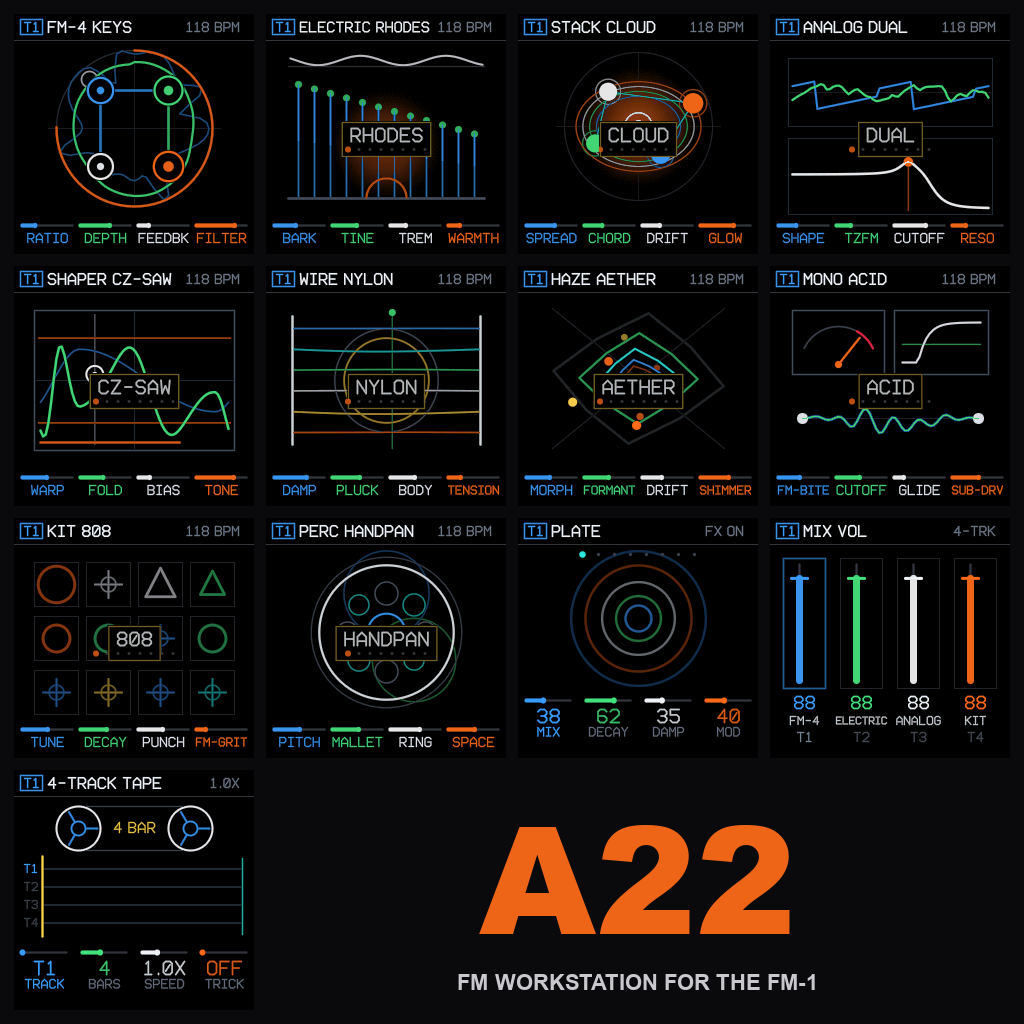
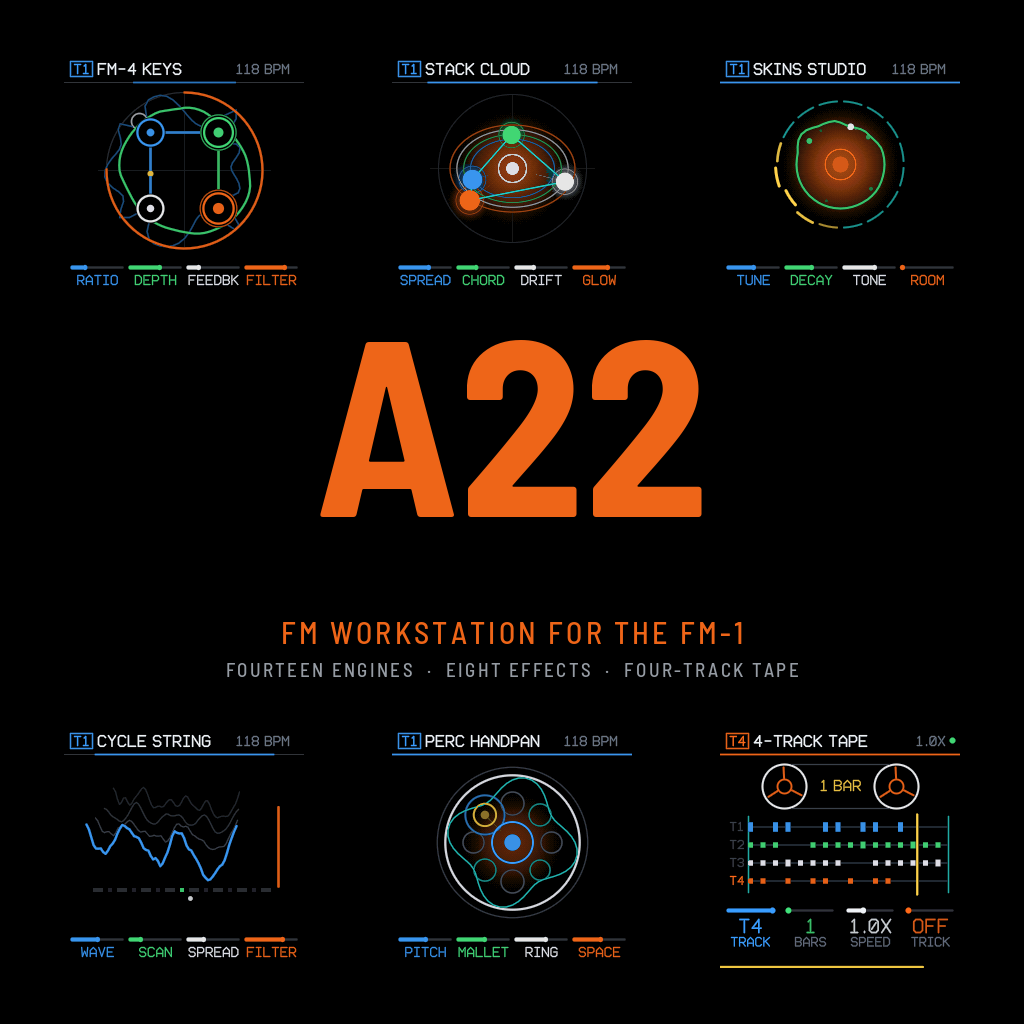
Hub card for 0.5.0: six live screens round the name, made by tools/hub_card.py
The card the Hub showed was 0.4.0's grid of 13 screens, most under an algorithm's name box, too
busy to read at the Hub's size. Now: FM-4 KEYS, STACK CLOUD and SKINS STUDIO above, CYCLE STRING,
PERC HANDPAN and the four-track tape (all four tracks recorded) below, each the core's own frame
at 1:1, taken while it plays and after every name box has cleared; A22 large in the middle in
Barlow Semi Condensed, in fmhub.json's colour, with "FOURTEEN ENGINES · EIGHT EFFECTS ·
FOUR-TRACK TAPE". Lossless WebP, 41,572 bytes.

tools/hub_card.py replaces h1's grid version (which wrote docs/img/hub-card.webp, a path A22 does
not use); tools/hub_card_shot.c renders one screen per process through the h1 API. One command
remakes the card for a release.

diff --git a/tools/hub_card.py b/tools/hub_card.py
@@ -1,65 +1,70 @@
 #!/usr/bin/env python3
-"""Renders h1's card picture for The Firmware Hub: every instrument's screen in one 4 x 4 grid.
+"""Renders A22's card picture for The Firmware Hub: six of its screens round the name.
 
-    python3 tools/hub_card.py      # builds build/h1host first, writes docs/img/hub-card.webp
+    python3 tools/hub_card.py       # writes docs/img/a22/hub-card.webp (fmhub.json's "image") and its .json
 
-Each tile is the host renderer's 240 x 240 frame at 1:1, taken mid-phrase while a short tune
-plays, so the pictures are the real firmware. With fewer than sixteen instruments the spare
-cells at the end hold the name. The Hub wants a square of 240 to 1024 px, 300 KB at most
-(fmhub.json's "image"); lossless WebP keeps every pixel and stays well under that.
-Needs Pillow and the Inter Display Black font for the name.
+Each screen is the core's own 240 x 240 frame at 1:1 (tools/hub_card_shot.c, built against core/*.c with cc), taken
+while it plays and after every name box has cleared: FM-4 KEYS, STACK CLOUD and SKINS STUDIO above, CYCLE STRING,
+PERC HANDPAN and the four-track tape with all four tracks recorded below. The name is in Barlow Semi Condensed
+(site/fonts), in fmhub.json's colour. The Hub wants a square of 240 to 1024 px, 300 KB at most; lossless WebP
+keeps every pixel and comes to about 42 KB. Needs cc and Pillow. Pick other screens in SHOTS.
 """
+import json
 import os
 import subprocess
-import sys
 import tempfile
 
 from PIL import Image, ImageDraw, ImageFont
 
-sys.path.insert(0, os.path.dirname(os.path.abspath(__file__)))
-import guide_media as g  # noqa: E402
-
-OUT = os.path.join(g.ROOT, "docs", "img", "hub-card.webp")
-FONT = "/usr/share/fonts/opentype/inter/InterDisplay-Black.otf"
-ACCENT = (0xFF, 0xB0, 0x8A)  # fmhub.json "color"
-SIZE, MARGIN, GAP, TILE = 1024, 14, 12, 240
-# pictures that read better later in the phrase, once their trails have built up
-LATE = {"ORBIT", "INK"}
-
-
-def shot(tmp, i, name):
-    at = 2950 if name in LATE else 1100
-    words, t = ["inst", str(i), "run", "2000"], 0
-    for tt, k, d in sorted(g.PHRASE):
-        if tt > at:
-            break
-        words += ["run", str(tt - t), "key", str(k), str(d)]
-        t = tt
-    words += ["run", str(at - t + 50 if name in LATE else 120), "shot", name.lower()]
-    g.run(tmp, words)
-    return Image.open(os.path.join(tmp, name.lower() + ".ppm")).convert("RGB")
+ROOT = os.path.normpath(os.path.join(os.path.dirname(os.path.abspath(__file__)), ".."))
+OUT = os.path.join(ROOT, "docs", "img", "a22", "hub-card.webp")
+FONTS = os.path.join(ROOT, "site", "fonts")
+SIZE = 1024
+SHOTS = [["0", "2", "13"], ["12", "9", "tape"]]   # engines by number (FM-4 0 ... SKINS 13), or the tape's page
+XS, YS = [64, 392, 720], [56, 728]
+TAG = "FM WORKSTATION FOR THE FM-1"
+LINE = "FOURTEEN ENGINES  ·  EIGHT EFFECTS  ·  FOUR-TRACK TAPE"
 
 
-def cell(i):
-    return MARGIN + (i % 4) * (TILE + GAP), MARGIN + (i // 4) * (TILE + GAP)
+def colour():
+    c = json.load(open(os.path.join(ROOT, "fmhub.json")))["color"].lstrip("#")
+    return tuple(int(c[i:i + 2], 16) for i in (0, 2, 4))
+
+
+def spaced(d, y, text, font, fill, track):
+    ws = [d.textlength(ch, font=font) for ch in text]
+    x = (SIZE - sum(ws) - track * (len(text) - 1)) / 2
+    for ch, w in zip(text, ws):
+        d.text((x, y), ch, font=font, fill=fill)
+        x += w + track
 
 
 def main():
-    subprocess.run([os.path.join(g.ROOT, "tools", "build_host.sh")], check=True, stdout=subprocess.DEVNULL)
-    names = g.instruments()[:16]
-    card = Image.new("RGB", (SIZE, SIZE), (0, 0, 0))
     with tempfile.TemporaryDirectory() as tmp:
-        for i, name in enumerate(names):
-            card.paste(shot(tmp, i, name), cell(i))
-    if len(names) < 16:
-        x, y = cell(len(names))
-        w = (16 - len(names)) * (TILE + GAP) - GAP
-        draw = ImageDraw.Draw(card)
-        font = ImageFont.truetype(FONT, 190)
-        l, t, r, b = draw.textbbox((0, 0), "h1", font=font)
-        draw.text((x + (w - (r - l)) / 2 - l, y + (TILE - (b - t)) / 2 - t), "h1", font=font, fill=ACCENT)
-    card.save(OUT, lossless=True, quality=100, method=6)
-    print("wrote", OUT, os.path.getsize(OUT), "bytes:", ", ".join(names))
+        exe = os.path.join(tmp, "shot")
+        core = sorted(os.path.join(ROOT, "core", f) for f in os.listdir(os.path.join(ROOT, "core")) if f.endswith(".c"))
+        subprocess.run(["cc", "-std=c99", "-O2", "-w", "-I", os.path.join(ROOT, "core"), *core,
+                        os.path.join(ROOT, "tools", "hub_card_shot.c"), "-o", exe, "-lm"], check=True)
+        card = Image.new("RGB", (SIZE, SIZE), (0, 0, 0))
+        for r, row in enumerate(SHOTS):
+            for c, what in enumerate(row):
+                ppm = os.path.join(tmp, f"{what}.ppm")
+                subprocess.run([exe, what, ppm], check=True)
+                card.paste(Image.open(ppm).convert("RGB"), (XS[c], YS[r]))
+    d = ImageDraw.Draw(card)
+    orange = colour()
+    big = ImageFont.truetype(os.path.join(FONTS, "BarlowSemiCondensed-Bold.ttf"), 250)
+    bb = d.textbbox((0, 0), "A22", font=big)
+    d.text(((SIZE - (bb[2] - bb[0])) / 2 - bb[0], 340 - bb[1]), "A22", font=big, fill=orange)
+    medium = os.path.join(FONTS, "BarlowSemiCondensed-Medium.ttf")
+    spaced(d, 614, TAG, ImageFont.truetype(medium, 30), orange, 3.2)
+    spaced(d, 658, LINE, ImageFont.truetype(medium, 19), (150, 156, 164), 2.4)
+    card.save(OUT, "WEBP", lossless=True, method=6)
+    with open(OUT + ".json", "w") as f:
+        json.dump({"prompt": "origin: The Firmware Hub card for A22, composed by tools/hub_card.py: six of its "
+                   "screens rendered by the core while playing (FM-4, STACK, SKINS, CYCLE, PERC, the four-track tape), "
+                   "the name in Barlow Semi Condensed. Not generated."}, f, indent=2)
+    print(f"wrote {OUT}, {os.path.getsize(OUT)} bytes")
 
 
 if __name__ == "__main__":

diff --git a/tools/hub_card_shot.c b/tools/hub_card_shot.c
@@ -1,0 +1,102 @@
+/* One screen of A22 for The Firmware Hub's card (tools/hub_card.py), rendered by the core itself and written as a
+ * PPM: an engine playing, after every name box has cleared. One per process (the core keeps some state through
+ * h1_init).
+ *   hub_card_shot ENGINE OUT.ppm     a chord held (a beat for KIT and SKINS)
+ *   hub_card_shot tape OUT.ppm       four tracks on the tape, its page open */
+#include <stdint.h>
+#include <stdio.h>
+#include <stdlib.h>
+#include <string.h>
+#include "internal.h"
+#include "h1.h"
+
+#define SR 44100
+static long samples, frame_no;
+
+static void go(int msec)
+{
+    static int32_t out[512];
+    long until = samples + (long)msec * SR / 1000;
+    while (samples < until) {
+        h1_render(out, 256);
+        samples += 256;
+        while (samples * 60 / SR > frame_no) {
+            frame_no++;
+            h1_frame((uint32_t)(frame_no * 1000 / 60));
+            (void)h1_present(0);
+        }
+    }
+}
+
+static void ppm(const char *path)
+{
+    const uint8_t *fb = h1_framebuffer();
+    const uint16_t *pal = h1_palette();
+    FILE *f = fopen(path, "wb");
+    int i;
+    if (!f) exit(1);
+    fprintf(f, "P6\n240 240\n255\n");
+    for (i = 0; i < 240 * 240; i++) {
+        uint16_t c = pal[fb[i]];
+        uint8_t rgb[3] = {(uint8_t)(((c >> 11) & 31) * 255 / 31), (uint8_t)(((c >> 5) & 63) * 255 / 63),
+                          (uint8_t)((c & 31) * 255 / 31)};
+        fwrite(rgb, 1, 3, f);
+    }
+    fclose(f);
+}
+
+static void keys(const int *k, int n, int down) { int i; for (i = 0; i < n; i++) h1_key(k[i], down); }
+static void btn(int b) { h1_button(b, 1); go(60); h1_button(b, 0); go(60); }
+
+int main(int argc, char **argv)
+{
+    static const int chord[4] = {0, 4, 7, 11}, high[4] = {7, 11, 14, 18};
+    if (argc < 3) return 2;
+    h1_init(SR);
+    st.seq[1] = 0;
+    go(400);
+    if (!strcmp(argv[1], "tape")) {               /* four tracks of sixteenths: stabs, an arpeggio, a beat, a bass */
+        static const int ins[4] = {2, 0, 8, 7};
+        int i, t;
+        for (t = 0; t < 4; t++) {
+            if (t) { h1_button(H1_BTN_EDIT, 1); h1_encoder(H1_ENC_PRESET, 1); h1_button(H1_BTN_EDIT, 0); go(300); }
+            h1_encoder(H1_ENC_PRESET, ins[t] - h1_instrument());
+            go(300);
+            btn(H1_BTN_REC);
+            for (i = 0; i < 16; i++) {
+                int k = t == 0 ? (i % 4 == 0 || i % 4 == 3 ? 7 : -1)
+                      : t == 1 ? 14 + (int[]){0, 4, 7, 11}[i % 4]
+                      : t == 2 ? (i % 4 == 0 ? 7 : i % 8 == 4 ? 9 : 13)
+                      : (i % 2 == 0 ? (int[]){0, 0, 3, 5}[(i / 4) % 4] : -1);
+                if (k >= 0) {
+                    if (t == 0) keys(chord, 4, 1); else h1_key(k, 1);
+                    go(40);
+                    if (t == 0) keys(chord, 4, 0); else h1_key(k, 0);
+                    go(60);
+                } else go(100);                  /* (16 steps inside the one bar, ~1.7 s of 2.03: REC closes it) */
+            }
+            btn(H1_BTN_REC);
+            go(2200);                            /* (a loop round before the next track: the take settles) */
+        }
+        btn(H1_BTN_SEQ);                         /* the tape's page */
+        go(1700);
+        ppm(argv[2]);
+        return 0;
+    }
+    {
+        int e = atoi(argv[1]);
+        h1_encoder(H1_ENC_PRESET, e - h1_instrument());
+        go(1800);                                /* (the engine's name and its algorithm's box gone) */
+        if (e == 13 || e == 8) {                 /* drums: a kick, the snare, hats, the last just before the shot */
+            static const int hits[8] = {7, 13, 9, 13, 17, 11, 12, 14};   /* ... and toms last: the skin dented */
+            int i;
+            for (i = 0; i < 8; i++) { h1_key(hits[i], 1); go(40); h1_key(hits[i], 0); go(110); }
+            h1_key(7, 1); h1_key(9, 1); h1_key(13, 1); go(45);
+        } else {
+            keys(e == 9 ? high : chord, 4, 1);
+            go(e == 9 ? 260 : 1200);
+        }
+        ppm(argv[2]);
+    }
+    return 0;
+}
